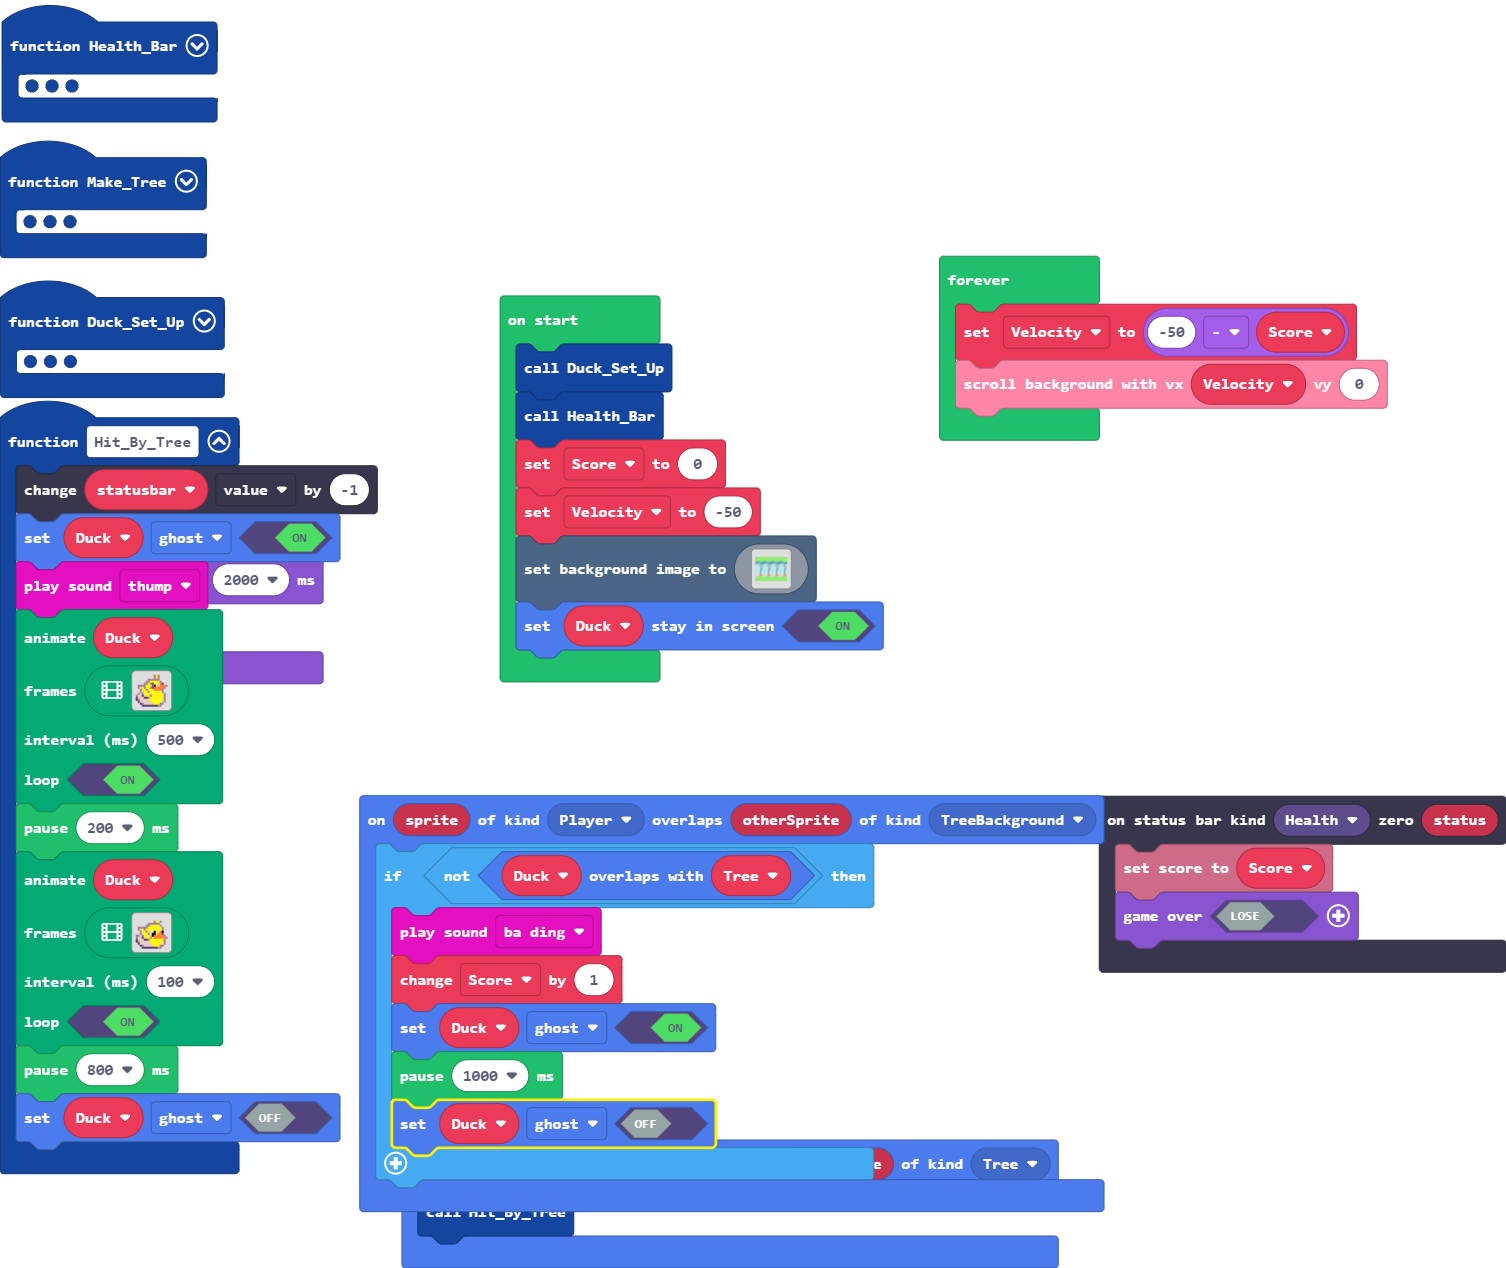
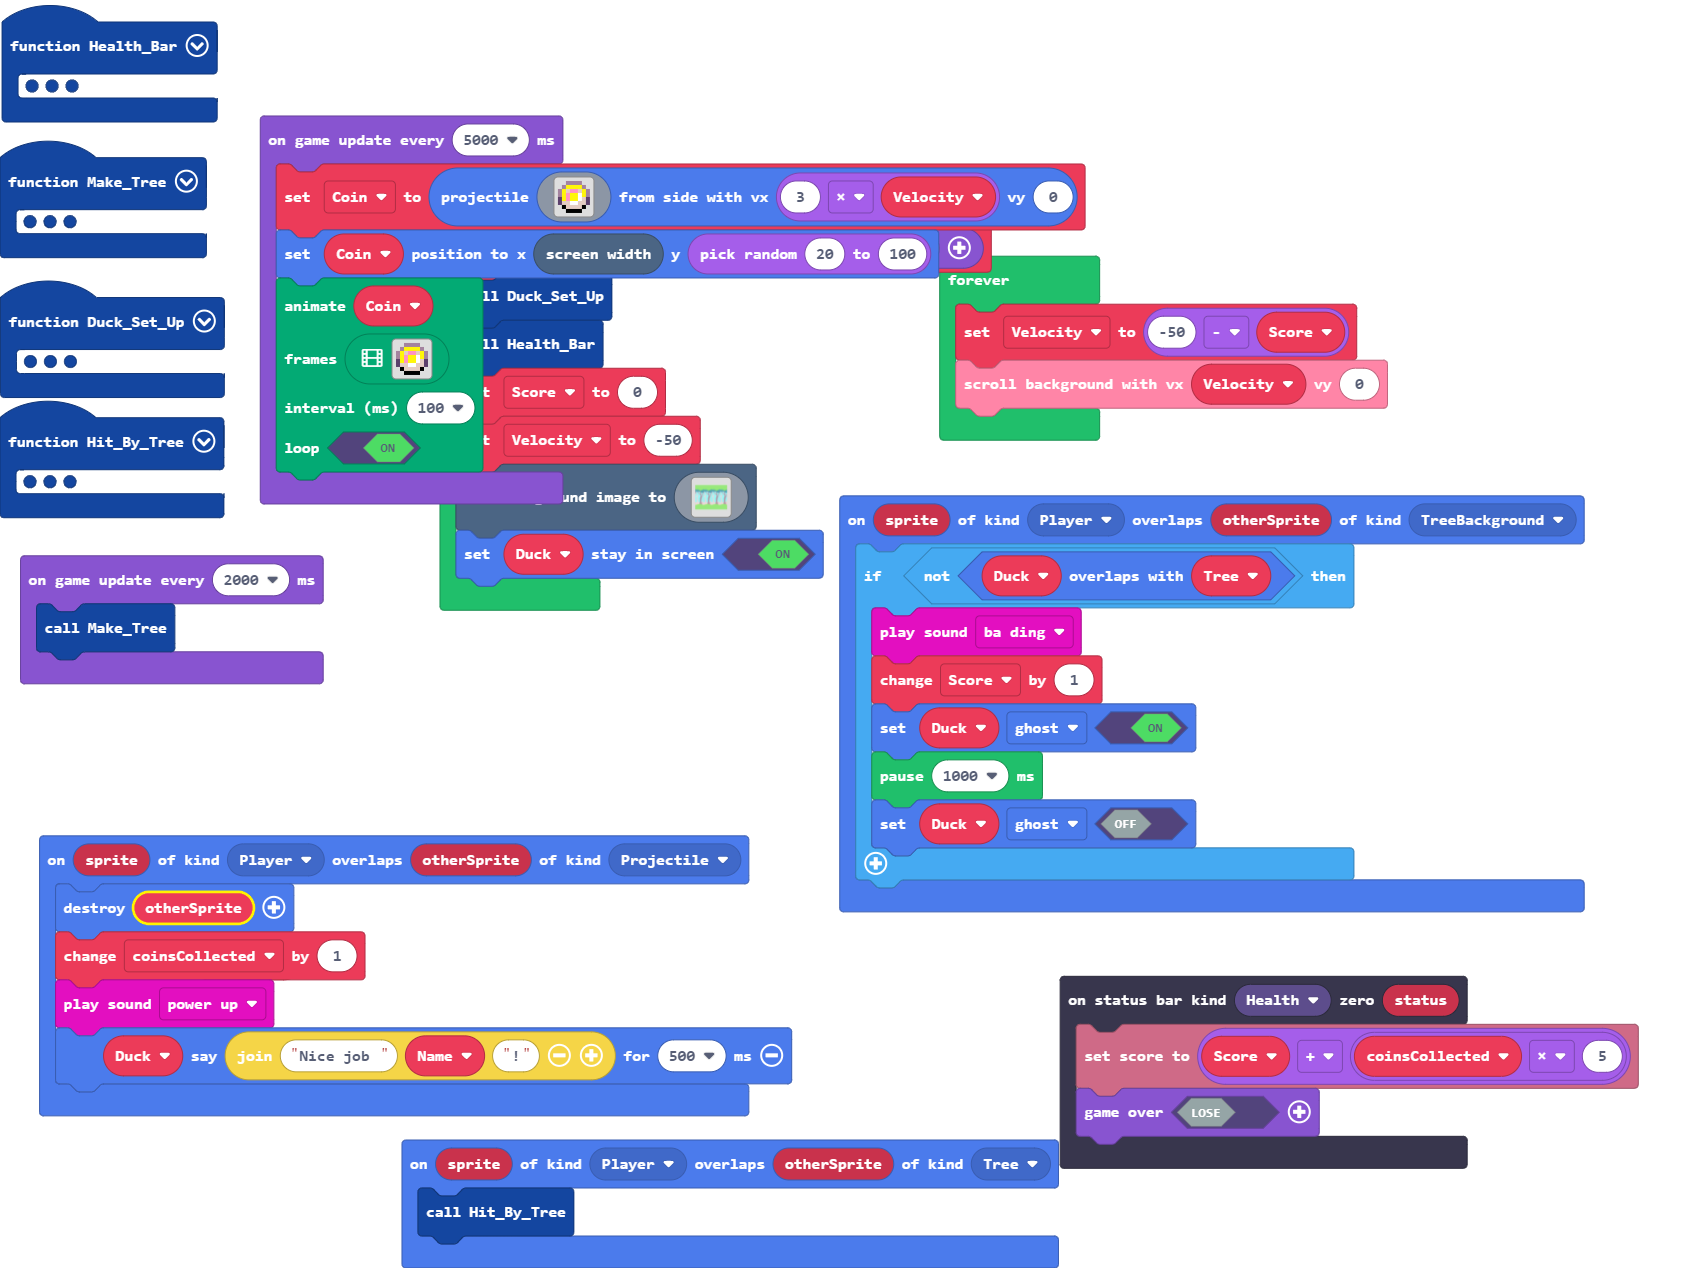
Added Coins and player name

diff --git a/main.ts b/main.ts
@@ -787,8 +787,14 @@ function Make_Tree () {
     Tree_Background.z = -1
 }
 statusbars.onZero(StatusBarKind.Health, function (status) {
-    info.setScore(Score)
+    info.setScore(Score + coinsCollected * 5)
     game.over(false)
+})
+sprites.onOverlap(SpriteKind.Player, SpriteKind.Projectile, function (sprite, otherSprite) {
+    otherSprite.destroy()
+    coinsCollected += 1
+    music.powerUp.play()
+    Duck.say("Nice job " + Name + "!", 500)
 })
 sprites.onOverlap(SpriteKind.Player, SpriteKind.TreeBackground, function (sprite, otherSprite) {
     if (!(Duck.overlapsWith(Tree))) {
@@ -830,13 +836,17 @@ function Health_Bar () {
 sprites.onOverlap(SpriteKind.Player, SpriteKind.Tree, function (sprite, otherSprite) {
     Hit_By_Tree()
 })
+let Coin: Sprite = null
 let HealthBar: Sprite = null
+let coinsCollected = 0
 let Tree_Background: Sprite = null
 let Tree: Sprite = null
 let statusbar: StatusBarSprite = null
 let Duck: Sprite = null
 let Velocity = 0
 let Score = 0
+let Name = ""
+Name = game.askForString("What`s your name?")
 Duck_Set_Up()
 Health_Bar()
 Score = 0
@@ -964,6 +974,79 @@ scene.setBackgroundImage(img`
     7777777777777777777777777777777777777777777777777777777777777777777777777777777777777777777777777777777777777777777777777777777777777777777777777777777777777777
     `)
 Duck.setStayInScreen(true)
+game.onUpdateInterval(5000, function () {
+    Coin = sprites.createProjectileFromSide(img`
+        . . b b b b . . 
+        . b 5 5 5 5 b . 
+        b 5 d 3 3 d 5 b 
+        b 5 3 5 5 1 5 b 
+        c 5 3 5 5 1 d c 
+        c d d 1 1 d d c 
+        . f d d d d f . 
+        . . f f f f . . 
+        `, 3 * Velocity, 0)
+    Coin.setPosition(scene.screenWidth(), randint(20, 100))
+    animation.runImageAnimation(
+    Coin,
+    [img`
+        . . b b b b . . 
+        . b 5 5 5 5 b . 
+        b 5 d 3 3 d 5 b 
+        b 5 3 5 5 1 5 b 
+        c 5 3 5 5 1 d c 
+        c d d 1 1 d d c 
+        . f d d d d f . 
+        . . f f f f . . 
+        `,img`
+        . . b b b . . . 
+        . b 5 5 5 b . . 
+        b 5 d 3 d 5 b . 
+        b 5 3 5 1 5 b . 
+        c 5 3 5 1 d c . 
+        c 5 d 1 d d c . 
+        . f d d d f . . 
+        . . f f f . . . 
+        `,img`
+        . . . b b . . . 
+        . . b 5 5 b . . 
+        . b 5 d 1 5 b . 
+        . b 5 3 1 5 b . 
+        . c 5 3 1 d c . 
+        . c 5 1 d d c . 
+        . . f d d f . . 
+        . . . f f . . . 
+        `,img`
+        . . . b b . . . 
+        . . b 5 5 b . . 
+        . . b 1 1 b . . 
+        . . b 5 5 b . . 
+        . . b d d b . . 
+        . . c d d c . . 
+        . . c 3 3 c . . 
+        . . . f f . . . 
+        `,img`
+        . . . b b . . . 
+        . . b 5 5 b . . 
+        . b 5 1 d 5 b . 
+        . b 5 1 3 5 b . 
+        . c d 1 3 5 c . 
+        . c d d 1 5 c . 
+        . . f d d f . . 
+        . . . f f . . . 
+        `,img`
+        . . . b b b . . 
+        . . b 5 5 5 b . 
+        . b 5 d 3 d 5 b 
+        . b 5 1 5 3 5 b 
+        . c d 1 5 3 5 c 
+        . c d d 1 d 5 c 
+        . . f d d d f . 
+        . . . f f f . . 
+        `],
+    100,
+    true
+    )
+})
 game.onUpdateInterval(2000, function () {
     Make_Tree()
 })
